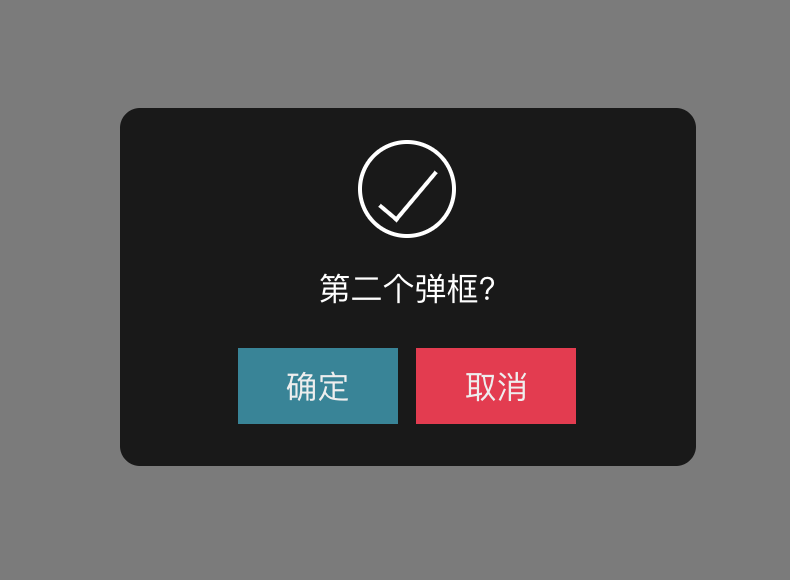
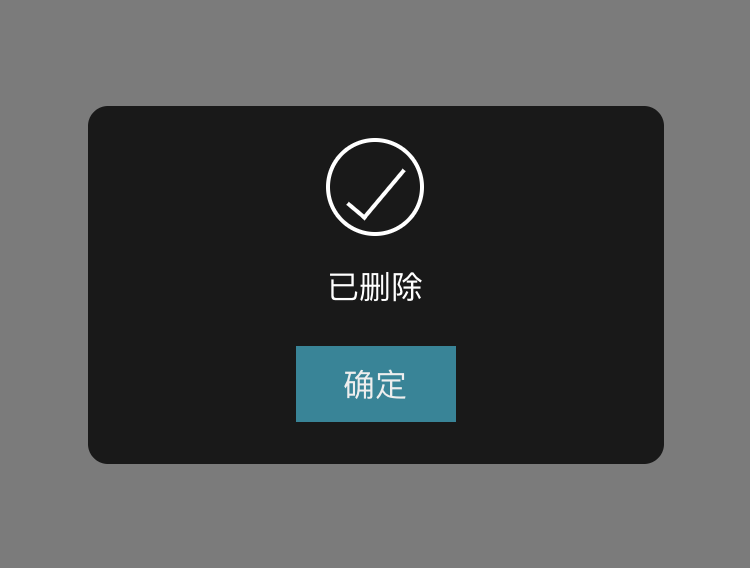
update readme

diff --git a/src/app/form/diademo/diademo.component.ts b/src/app/form/diademo/diademo.component.ts
@@ -31,10 +31,10 @@ export class DiademoComponent implements OnInit {
         offLabel: ``,
         accept:()=>{
               this.dialog.confirm({
-                message:'第二个弹框?',
+                message:'已删除',
                 header:'ok',
                 okVisible:true,
-                offVisible:true,
+                offVisible:false,
                 okButton:'blue',
                 offButton:'red',
                 okLabel:``,
@@ -43,10 +43,10 @@ export class DiademoComponent implements OnInit {
                 offLabel: ``,
                 accept:()=>{
                   this.dialog.confirm({
-                    message:'第三个弹框?',
+                    message:'正在拼命加载……',
                     header:'waiting',
-                    okVisible:true,
-                    offVisible:true,
+                    okVisible:false,
+                    offVisible:false,
                     okButton:'blue',
                     offButton:'green',
                     okLabel:``,

diff --git a/src/app/form/diademo/diademo.component.html b/src/app/form/diademo/diademo.component.html
@@ -1,6 +1,6 @@
 <yycf-dialog [key]="'1'" ></yycf-dialog>
 <yycf-dialog [key]="'2'"></yycf-dialog>
-<yycf-dialog [key]="'3'" [okButton]="'red'" [opacity]=".1"></yycf-dialog>
+<yycf-dialog [key]="'3'" [okButton]="'red'" ></yycf-dialog>
 
 <yycf-dialog [key]="'4'" #ct >
     <!-- <yycf-footer> -->

diff --git a/README.md b/README.md
@@ -64,10 +64,10 @@ export class DialogDemo  implements OnInit{
         offLabel: ``,
         accept:()=>{
               this.dialog.confirm({
-                message:'第二个弹框?',
+                message:'已删除',
                 header:'ok',
                 okVisible:true,
-                offVisible:true,
+                offVisible:false,
                 okButton:'blue',
                 offButton:'red',
                 okLabel:``,
@@ -76,10 +76,10 @@ export class DialogDemo  implements OnInit{
                 offLabel: ``,
                 accept:()=>{
                   this.dialog.confirm({
-                    message:'第三个弹框?',
+                    message:'正在拼命加载……',
                     header:'waiting',
-                    okVisible:true,
-                    offVisible:true,
+                    okVisible:false,
+                    offVisible:false,
                     okButton:'blue',
                     offButton:'green',
                     okLabel:``,
@@ -116,15 +116,15 @@ export class DialogDemo  implements OnInit{
 | width   | 设置对话框宽度 | string     | auto  |
 | height   | 设置对话框高度 | string     | auto  |
 | opacity   | 设置对话框透明度 | number   | .5  |
-| message   | 设置对话框标题 | string     | yycf-dialog|
-| header    | 对话框的类型   | 'waiting' 'ok' 'warning' |   waiting|
+| message   | 设置对话框标题 | string     | yycf-dialog component|
+| header    | 对话框的类型   | 'waiting' 'ok' 'warning' | 'waiting'|
 | okVisible   | 确定按钮的可见性 | boolean    | true  |
-| offVisible   | 取消按钮的可见性 | string     | true  |
-| okButton   | 确定按钮的颜色| 'blue' 'green' 'red'     | 'blue'  |
-| offButton   | 取消按钮的颜色 | 'blue' 'green' 'red'     | green |
+| offVisible   | 取消按钮的可见性 | boolean     | true  |
+| okButton   | 确定按钮的颜色| 'blue'  'green'  'red'     | 'blue'  |
+| offButton   | 取消按钮的颜色 | 'blue'  'green' 'red'     | 'green' |
 | okLabel   | 确定按钮的内容|  string           | 确定 |
 | offLabel   | 取消按钮的内容 | string         | 取消  |
-| delay      | 指定对话框的生命周期| number(ms) |  null  |
+| delay      | 指定对话框的生命周期| number (ms) |  null  |
 | accept      | 确定按钮的回调函数| Function    |  null  |
 | reject      | 取消按钮的回调函数| Function    |  null  |
 
